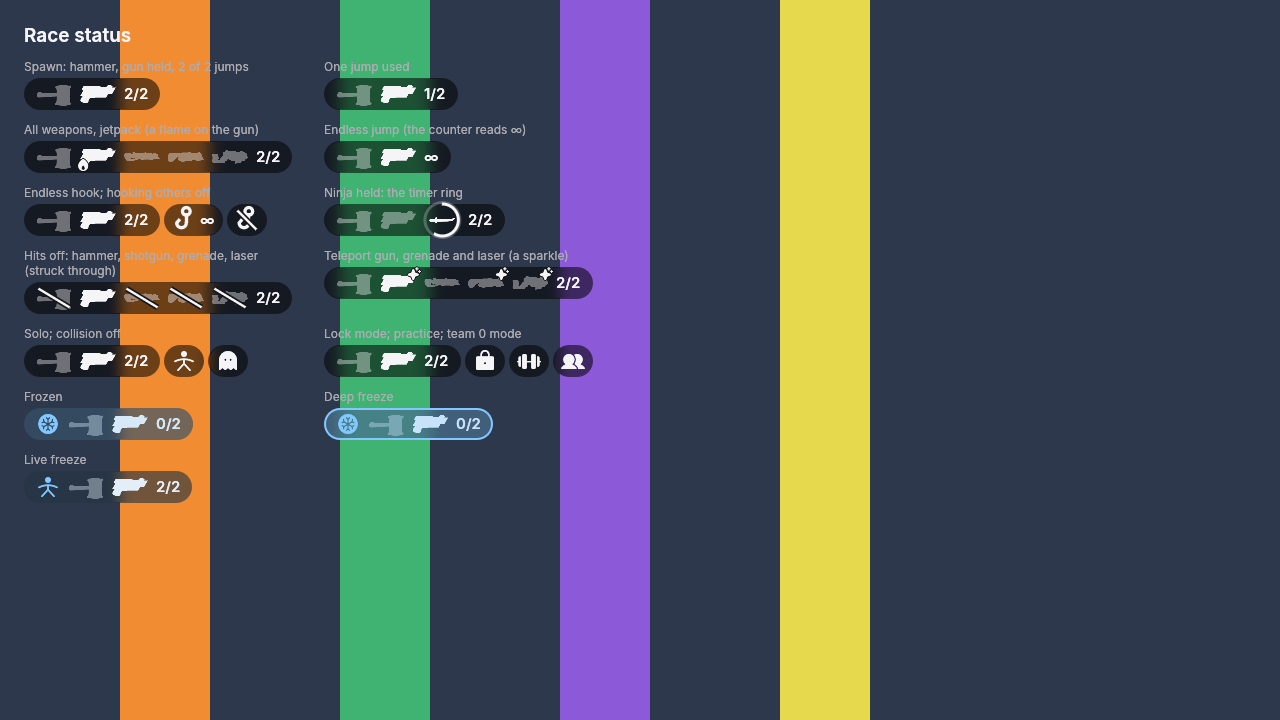
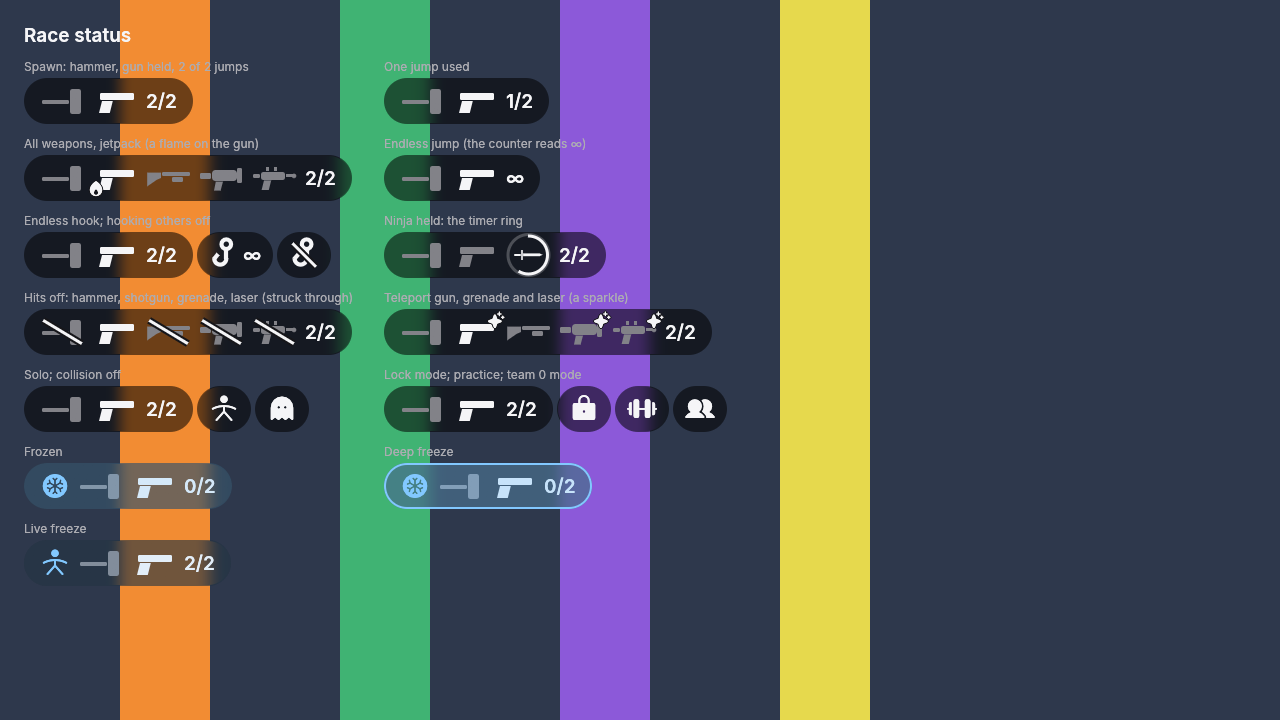
rust-client: race status chips: clean vector weapons, pill 25 % larger
- statusview::weapon_shape draws hammer, gun, shotgun, grenade launcher, laser and
  ninja sword as crisp filled shapes (no overlapping parts); weapons not held are the
  same shape in a flat 45 % grey (color::WEAPON_DIM) instead of a blurred sprite
  silhouette. The silhouette code is gone; WeaponIcons stays for the killfeed.
- The pill is ~25 % larger (size::ICON_STATUS 30, title-size counter, more padding)
  to match the watermark's weight in game.
- docs/review/7.7: states page and the live comparison rerun.

Changed region(s): [[0.0, 0.0917, 0.5938, 0.825]]

diff --git a/rust-client/client/src/statusview.rs b/rust-client/client/src/statusview.rs
@@ -10,7 +10,7 @@
 use egui::{Color32, CornerRadius, Margin, Pos2, Rect, Response, Sense, Shape, Stroke, Ui, vec2};
 
 use crate::icons;
-use crate::statusbar::{Indicator, Status, WeaponIcons};
+use crate::statusbar::{Indicator, Status};
 use crate::style::{Glass, Weight, color, icon_font, radius, size, space};
 use crate::widgets as w;
 
@@ -19,8 +19,8 @@ const GUN: usize = 1;
 const NINJA: usize = 5;
 const WEAPONS: [&str; 6] = ["Hammer", "Gun", "Shotgun", "Grenade", "Laser", "Ninja"];
 
-/// The icon and sprite size.
-const ICON: f32 = size::ICON_HUD;
+/// The icon size (the pill is ~25 % larger than the other HUD rows, user review).
+const ICON: f32 = size::ICON_STATUS;
 
 /// How the tee is frozen; it tints the weapon pill.
 #[derive(Clone, Copy, Debug, PartialEq, Eq)]
@@ -193,10 +193,80 @@ fn hook(ui: &Ui, rect: Rect) {
     p.line_segment([tip, tip + vec2(w * 0.12, -h * 0.14)], s);
 }
 
+/// One weapon as a clean filled shape in `rect` (1.5 : 1, pointing right), its parts
+/// not overlapping so a flat colour stays flat. Drawn, not cut from the game skin: the
+/// pickup sprites turn into blobs as silhouettes.
+fn weapon_shape(ui: &Ui, n: usize, rect: Rect, fill: Color32) {
+    let p = ui.painter();
+    let h = rect.height();
+    // a point in the box's units: x 0..1.5, y 0..1 (of the height)
+    let at = |x: f32, y: f32| rect.left_top() + vec2(x * h, y * h);
+    let block = |x0: f32, y0: f32, x1: f32, y1: f32, r: f32| {
+        let rr = Rect::from_min_max(at(x0, y0), at(x1, y1));
+        p.rect_filled(rr, CornerRadius::same((r * h) as u8), fill);
+    };
+    let poly = |pts: &[(f32, f32)]| {
+        let pts = pts.iter().map(|&(x, y)| at(x, y)).collect();
+        p.add(Shape::convex_polygon(pts, fill, Stroke::NONE));
+    };
+    match n {
+        // hammer: a long handle and a tall head across its end
+        0 => {
+            block(0.08, 0.47, 0.98, 0.61, 0.05);
+            block(1.0, 0.1, 1.38, 0.92, 0.08);
+        }
+        // gun: slide and a slanted grip
+        1 => {
+            block(0.22, 0.24, 1.36, 0.48, 0.06);
+            poly(&[(0.3, 0.5), (0.66, 0.5), (0.56, 0.9), (0.2, 0.9)]);
+        }
+        // shotgun: a long thin barrel, the pump under it, a stock
+        2 => {
+            block(0.52, 0.3, 1.46, 0.44, 0.04);
+            block(0.86, 0.47, 1.24, 0.62, 0.06);
+            poly(&[
+                (0.04, 0.32),
+                (0.5, 0.32),
+                (0.5, 0.5),
+                (0.36, 0.56),
+                (0.04, 0.78),
+            ]);
+        }
+        // grenade launcher: a fat tube with a wide muzzle, grip and stock
+        3 => {
+            block(0.42, 0.24, 1.26, 0.6, 0.12);
+            block(1.28, 0.16, 1.44, 0.68, 0.05);
+            poly(&[(0.56, 0.62), (0.8, 0.62), (0.72, 0.92), (0.5, 0.92)]);
+            block(0.04, 0.34, 0.4, 0.52, 0.06);
+        }
+        // laser: a body, a thin emitter with a lens, two fins, grip
+        4 => {
+            block(0.3, 0.3, 1.1, 0.56, 0.08);
+            block(1.12, 0.38, 1.36, 0.48, 0.03);
+            p.circle_filled(at(1.4, 0.43), 0.07 * h, fill);
+            block(0.48, 0.14, 0.58, 0.28, 0.02);
+            block(0.72, 0.14, 0.82, 0.28, 0.02);
+            poly(&[(0.4, 0.58), (0.64, 0.58), (0.56, 0.9), (0.32, 0.9)]);
+            block(0.04, 0.36, 0.28, 0.5, 0.05);
+        }
+        // ninja: handle, guard, a long blade with a point
+        _ => {
+            block(0.04, 0.43, 0.36, 0.55, 0.05);
+            block(0.38, 0.26, 0.46, 0.72, 0.03);
+            poly(&[
+                (0.48, 0.42),
+                (1.3, 0.42),
+                (1.46, 0.49),
+                (1.3, 0.56),
+                (0.48, 0.56),
+            ]);
+        }
+    }
+}
+
 /// One owned weapon in the pill. `tooltip`: its name and marks on hover.
 fn weapon(
     ui: &mut Ui,
-    icons: &mut WeaponIcons,
     n: usize,
     held: bool,
     marks: Marks,
@@ -210,18 +280,10 @@ fn weapon(
     } else {
         rect
     };
-    if let Some((id, [tw, th])) = icons.silhouette(ui.ctx(), n) {
-        let scale = (area.width() / tw).min(area.height() / th);
-        let r = Rect::from_center_size(area.center(), vec2(tw, th) * scale);
-        // C++: 0.4 for weapons not held
-        let tint = if held {
-            color::TEXT
-        } else {
-            color::TEXT.gamma_multiply(0.4)
-        };
-        let uv = Rect::from_min_max(Pos2::ZERO, Pos2::new(1.0, 1.0));
-        ui.painter().image(id, r, uv, tint);
-    }
+    // C++ draws weapons not held at 0.4: the same shape in a flat 45 % grey
+    let fill = if held { color::TEXT } else { color::WEAPON_DIM };
+    let r = Rect::from_center_size(area.center(), vec2(area.height() * 1.5, area.height()));
+    weapon_shape(ui, n, r.intersect(area), fill);
     if let Some(p) = ninja.filter(|_| ringed) {
         let d = ICON + space::S;
         ring(ui, Rect::from_center_size(rect.center(), vec2(d, d)), p);
@@ -254,14 +316,7 @@ fn weapon(
 
 /// Draws the status as chips. `freeze` tints the weapon pill; `tooltip`: everything is
 /// named on hover (the HUD editor).
-pub fn draw(
-    ui: &mut Ui,
-    glass: Glass,
-    s: &Status,
-    freeze: Freeze,
-    icons: &mut WeaponIcons,
-    tooltip: bool,
-) {
+pub fn draw(ui: &mut Ui, glass: Glass, s: &Status, freeze: Freeze, tooltip: bool) {
     let all: Vec<Indicator> = (s.capabilities.iter())
         .chain(&s.prohibited)
         .chain(&s.modes)
@@ -284,7 +339,7 @@ pub fn draw(
         ui.spacing_mut().item_spacing.x = space::XS;
         let show_pill = !s.weapons.is_empty() || s.jumps.1 > 0 || freeze != Freeze::None;
         if show_pill {
-            let margin = Margin::symmetric(space::M as i8, space::XS as i8);
+            let margin = Margin::symmetric(space::L as i8, space::S as i8);
             let pill = w::hud_bar(ui, glass, radius::PILL, margin, ICON, |ui| {
                 ui.spacing_mut().item_spacing.x = space::S;
                 if freeze != Freeze::None {
@@ -299,7 +354,7 @@ pub fn draw(
                     }
                 }
                 for &(n, held) in &s.weapons {
-                    weapon(ui, icons, n, held, marks[n], s.ninja, tooltip);
+                    weapon(ui, n, held, marks[n], s.ninja, tooltip);
                 }
                 if s.jumps.1 > 0 || endless_jump {
                     // endless jump: "∞" instead of the count
@@ -308,7 +363,7 @@ pub fn draw(
                     } else {
                         format!("{}/{}", s.jumps.0, s.jumps.1)
                     };
-                    let r = w::text(ui, &text, size::BODY, Weight::SemiBold, color::TEXT);
+                    let r = w::text(ui, &text, size::TITLE, Weight::SemiBold, color::TEXT);
                     if tooltip {
                         r.on_hover_text(if endless_jump {
                             "Endless jump"
@@ -338,7 +393,7 @@ pub fn draw(
             }
         }
         for (chip, name) in chips {
-            let margin = Margin::symmetric(space::S as i8, space::XS as i8);
+            let margin = Margin::symmetric(space::M as i8, space::S as i8);
             let r = w::hud_bar(ui, glass, radius::PILL, margin, ICON, |ui| {
                 ui.spacing_mut().item_spacing.x = space::XS;
                 match chip {
@@ -352,7 +407,7 @@ pub fn draw(
                             strike(ui, rect);
                         }
                         if endless {
-                            w::text(ui, "\u{221e}", size::BODY, Weight::SemiBold, color::TEXT);
+                            w::text(ui, "\u{221e}", size::TITLE, Weight::SemiBold, color::TEXT);
                         }
                     }
                 }

diff --git a/rust-client/client/src/statusbar.rs b/rust-client/client/src/statusbar.rs
@@ -239,12 +239,10 @@ fn weapon_images(storage: &Storage) -> Vec<Option<ColorImage>> {
         .collect()
 }
 
-/// The six weapons' pickup sprites as egui images (the status bar, the killfeed), and
-/// their white silhouettes (the status icons).
+/// The six weapons' pickup sprites as egui images (the killfeed).
 pub struct WeaponIcons {
     images: Vec<Option<ColorImage>>,
     textures: Vec<Option<TextureHandle>>,
-    silhouettes: Vec<Option<TextureHandle>>,
 }
 
 impl WeaponIcons {
@@ -252,41 +250,7 @@ impl WeaponIcons {
         Self {
             images: weapon_images(storage),
             textures: Vec::new(),
-            silhouettes: Vec::new(),
         }
-    }
-
-    /// A weapon's white silhouette (the sprite's alpha) and its size in pixels.
-    pub fn silhouette(
-        &mut self,
-        ctx: &egui::Context,
-        weapon: usize,
-    ) -> Option<(egui::TextureId, [f32; 2])> {
-        if self.silhouettes.is_empty() {
-            self.silhouettes = (self.images.iter().enumerate())
-                .map(|(n, i)| {
-                    let i = i.as_ref()?;
-                    // cropped to the opaque part: pickup sprites carry wide margins
-                    let [w, h] = i.size;
-                    let opaque = |x: usize, y: usize| i.pixels[y * w + x].a() > 0;
-                    let xs: Vec<usize> = (0..w).filter(|&x| (0..h).any(|y| opaque(x, y))).collect();
-                    let ys: Vec<usize> = (0..h).filter(|&y| (0..w).any(|x| opaque(x, y))).collect();
-                    let (&x0, &x1, &y0, &y1) = (xs.first()?, xs.last()?, ys.first()?, ys.last()?);
-                    let white: Vec<Color32> = (y0..=y1)
-                        .flat_map(|y| (x0..=x1).map(move |x| (x, y)))
-                        .map(|(x, y)| Color32::from_white_alpha(i.pixels[y * w + x].a()))
-                        .collect();
-                    let image = ColorImage::new([x1 - x0 + 1, y1 - y0 + 1], white);
-                    Some(ctx.load_texture(
-                        format!("hud_weapon_silhouette_{n}"),
-                        image,
-                        Default::default(),
-                    ))
-                })
-                .collect();
-        }
-        let t = self.silhouettes.get(weapon)?.as_ref()?;
-        Some((t.id(), t.size().map(|v| v as f32)))
     }
 
     /// A weapon sprite, `height` tall, at `alpha`; nothing for an unknown weapon.
@@ -310,13 +274,7 @@ impl WeaponIcons {
     }
 }
 
-pub struct StatusBar(WeaponIcons);
-
-impl StatusBar {
-    pub fn new(storage: &Storage) -> Self {
-        Self(WeaponIcons::new(storage))
-    }
-}
+pub struct StatusBar;
 
 impl Widget for StatusBar {
     fn id(&self) -> &'static str {
@@ -397,7 +355,7 @@ impl Widget for StatusBar {
         // C++: frozen while m_FreezeEnd is ahead (the deep and live flags come first)
         let frozen = core.freeze_end > data.client.game_tick().unwrap_or(0);
         let freeze = statusview::freeze_of(&s, frozen);
-        statusview::draw(ui, data.glass, &s, freeze, &mut self.0, data.editing);
+        statusview::draw(ui, data.glass, &s, freeze, data.editing);
     }
 
     fn settings(&mut self, ui: &mut Ui, config: &mut HudConfig) {

diff --git a/rust-client/client/src/gallery.rs b/rust-client/client/src/gallery.rs
@@ -6,9 +6,7 @@ use egui::Align2;
 use crate::gfx::batch::{Batch, QuadItem};
 use crate::gfx::{Gfx, Size};
 use crate::icons;
-use crate::statusbar::WeaponIcons;
 use crate::statusview;
-use crate::storage::Storage;
 use crate::style::{Glass, Weight, color, size, space};
 use crate::ui::Painter;
 use crate::watermark;
@@ -198,9 +196,8 @@ pub const STATUS_SIZE: Size = Size {
 };
 
 /// Draws the race status page into the world target of `gfx` (sized `STATUS_SIZE`).
-pub fn render_status(gfx: &mut Gfx, storage: &Storage) {
+pub fn render_status(gfx: &mut Gfx) {
     let glass = Glass::Subtle;
-    let mut icons = WeaponIcons::new(storage);
     let examples = statusview::examples();
     render_page(gfx, glass, stripes, |ctx| {
         egui::Area::new(egui::Id::unique("status_gallery"))
@@ -221,7 +218,7 @@ pub fn render_status(gfx: &mut Gfx, storage: &Storage) {
                                 ui.spacing_mut().item_spacing.y = space::XS;
                                 let weak = ui.visuals().weak_text_color();
                                 w::text(ui, label, size::CAPTION, Weight::Regular, weak);
-                                statusview::draw(ui, glass, status, *freeze, &mut icons, false);
+                                statusview::draw(ui, glass, status, *freeze, false);
                             });
                             if n % 2 == 1 {
                                 ui.end_row();

diff --git a/rust-client/client/src/style.rs b/rust-client/client/src/style.rs
@@ -26,6 +26,8 @@ pub mod color {
     pub const SUCCESS: Color32 = Color32::from_rgb(48, 209, 88);
     /// Freeze (the race status pill's tint), DDNet's ice blue.
     pub const FREEZE: Color32 = Color32::from_rgb(130, 200, 255);
+    /// A weapon not held in the race status: 45 % of white, flat (C++ draws it at 0.4).
+    pub const WEAPON_DIM: Color32 = Color32::from_rgb(130, 130, 136);
     pub const DANGER: Color32 = Color32::from_rgb(255, 69, 58);
     /// The logo pill of the watermark (white, SPEC §1).
     pub const LOGO: Color32 = Color32::from_rgb(250, 250, 252);
@@ -62,6 +64,9 @@ pub mod size {
     pub const ICON_LARGE: f32 = 21.0;
     /// The race status block's icons and weapon sprites.
     pub const ICON_HUD: f32 = 24.0;
+    /// The race status pill's icons and weapons (its visual weight matches the
+    /// watermark's).
+    pub const ICON_STATUS: f32 = 30.0;
 }
 
 /// Animation timing in seconds.

diff --git a/rust-client/client/examples/gallery.rs b/rust-client/client/examples/gallery.rs
@@ -1,5 +1,5 @@
 //! Draws the design-system gallery (M7.1) headless and saves it as a PNG; with a second
-//! path, also the race status review page (7.7, needs the DDNet data dir for weapons).
+//! path, also the race status review page (7.7).
 //!
 //! Usage: cargo run -p ddnet-rs --example gallery -- [out.png] [status.png]
 
@@ -13,10 +13,9 @@ fn main() {
     ddnet_rs::gallery::render(&mut gfx);
     save(&gfx, &out);
     if let Some(status) = args.next() {
-        let storage = ddnet_rs::storage::Storage::new(None).expect("storage");
         let mut gfx =
             ddnet_rs::gfx::Gfx::headless(ddnet_rs::gallery::STATUS_SIZE).expect("graphics adapter");
-        ddnet_rs::gallery::render_status(&mut gfx, &storage);
+        ddnet_rs::gallery::render_status(&mut gfx);
         save(&gfx, &status);
     }
 }

diff --git a/rust-client/client/src/main.rs b/rust-client/client/src/main.rs
@@ -883,7 +883,7 @@ fn main() {
     let vsync = options.vsync || settings.config.gfx_vsync != 0;
     let hud: Vec<Box<dyn Widget>> = vec![
         Box::new(Watermark),
-        Box::new(StatusBar::new(&storage)),
+        Box::new(StatusBar),
         Box::new(Movement),
         Box::new(Killfeed::new(&storage)),
     ];

diff --git a/rust-client/docs/PROGRESS.md b/rust-client/docs/PROGRESS.md
@@ -748,6 +748,15 @@ Built before the editor (the user chose this order) so the editor drags a real w
 - Gallery page: every state labelled (docs/review/7.7/states.png); live C++ comparison
   rerun (docs/review/7.7/cpp-vs-rust-states.png). Unused icons pruned.
 
+#### Review round 5 (2026-11-25): Chips kept by the user and a friend
+- Weapons are drawn as clean vector shapes (`statusview::weapon_shape`: hammer, gun,
+  shotgun, grenade launcher, laser, ninja sword; parts do not overlap), not silhouettes
+  of the game's pickup sprites (those read as blobs). Not held: the same shape in a flat
+  45 % grey (`color::WEAPON_DIM`). `WeaponIcons` (sprites) is now only the killfeed's.
+- The pill is ~25 % larger: `size::ICON_STATUS` 30, counter and "∞" in the title size,
+  padding a step up.
+- The user plays with the HUD for a while before more polish.
+
 #### Exact next actions (next session starts here)
 1. Read CLAUDE.md, PLAN §10.3, this section, `git log`.
 2. Apply the user's review of the chips and their final watermark slider values.
